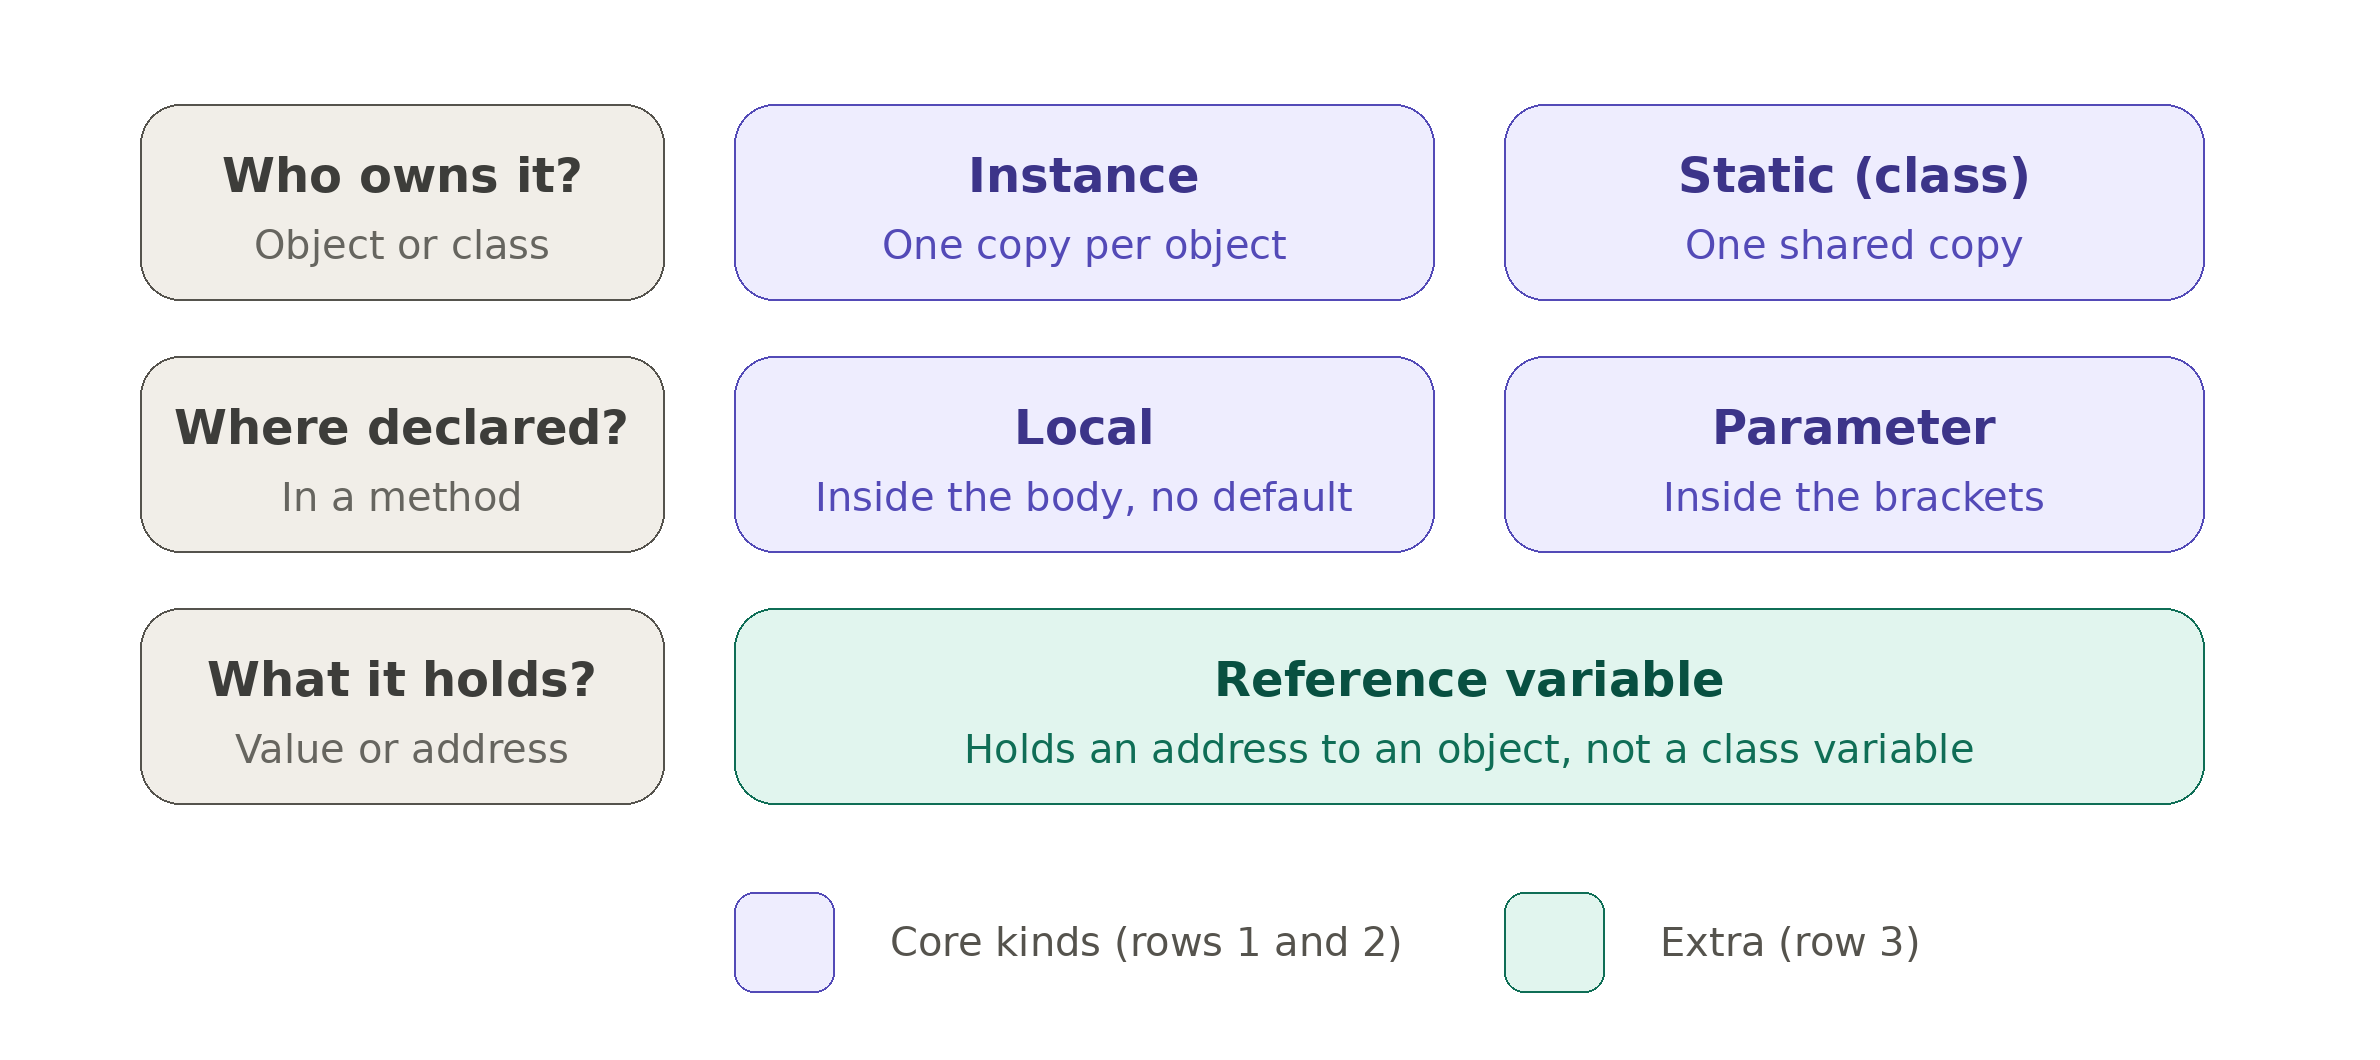
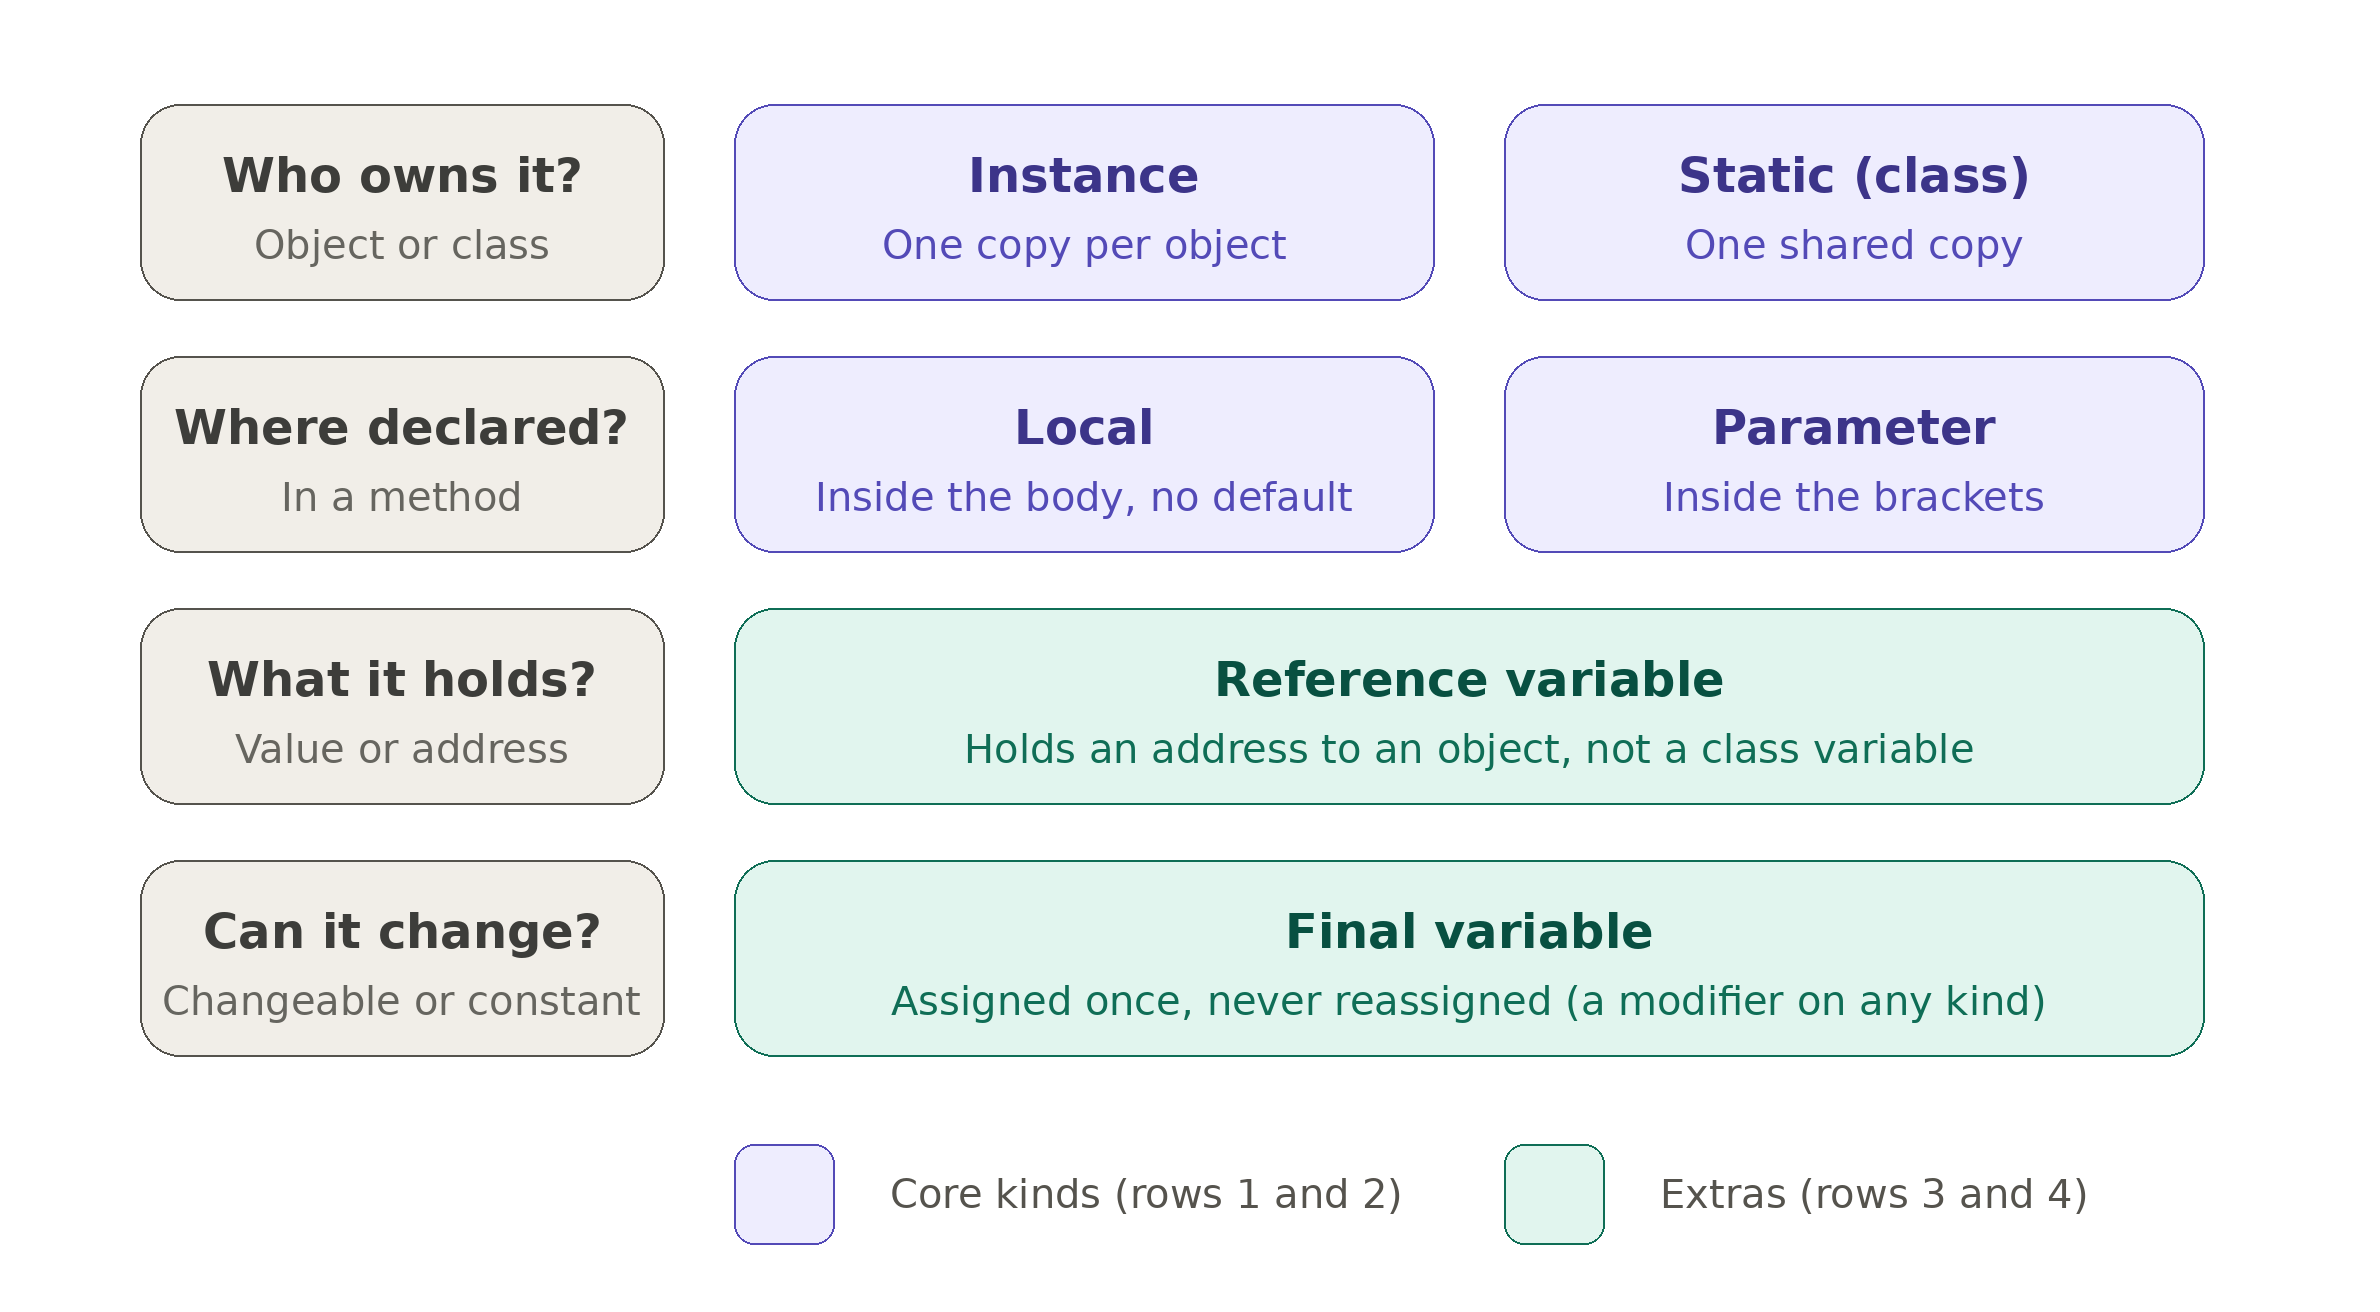
Document final variable kind
Updated the Variables README and memory map to include the final variable kind, clarify the variable taxonomy, and explain the extra categories in the Java variable model.

diff --git a/Variables/README.md b/Variables/README.md
@@ -1,14 +1,14 @@
 # Java Variable Kinds
 
-One runnable example for each kind of Java variable: local, instance, static (class), parameter, and reference.
+One runnable example for each kind of Java variable: local, instance, static (class), parameter, reference, and final.
 
 Each file starts with a reference block (kinds, templates, keyword meanings), then a detailed explanation of that kind, then the runnable code. Illegal cases are commented out with an `x` and the reason.
 
 ## Memory map
 
-![Java variable kinds memory map: who owns it (instance or static), where it is declared (local or parameter), and what it holds (reference variable)](java_variable_kinds_memory_map.png)
+![Java variable kinds memory map: who owns it (instance or static), where it is declared (local or parameter), what it holds (reference variable), and whether it can change (final variable)](java_variable_kinds_memory_map.png)
 
-Read each row left to right: the question on the left, then the kinds that answer it. Rows 1 and 2 are the core kinds, and row 3 is the extra.
+Read each row left to right: the question on the left, then the kinds that answer it. Rows 1 and 2 are the core kinds, and rows 3 and 4 are the extras.
 
 ## Requirements
 
